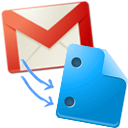
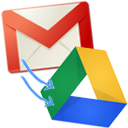
Updated to support Google Drive

diff --git a/js/main.js b/js/main.js
@@ -14,40 +14,8 @@ function getUrlVars(gm_url) {
 }
 
 function built_anchor() {
-    // var attachment_rows = jQuery('#canvas_frame').contents().find('div[role="main"] div.hq.gt table');
-    // jQuery.each(attachment_rows, function(i, $attachment) {
-    //     jQuery.doTimeout('buildAnchor', DOM_UPDATE_REPROCESS_WAIT_TIME_MS, function() {
-    //         var view_node = jQuery($attachment).find('a[href*="&disp=inline"][href*="&safe=1&zw"]');
-    //         if(view_node.length > 0) {
-    //             var _href = view_node.attr('href');
-    //             _href = generate_download_url(_href);
-
-    //             var download_link = jQuery("<a>")
-    //                 .attr({
-    //                     "class" : "docs_autosave_anchor",
-    //                     "target": "_blank",
-    //                     "href"  : _href,
-    //                     "style" : "text-decoration:none;"
-    //                 })
-    //                 .append('Save To Docs');
-
-    //             view_node.after(download_link);
-    //             view_node.after("&nbsp;&nbsp;&nbsp;");
-                
-    //             if(jQuery('a.docs_autosave_anchor').length) {
-    //                 //elem.doTimeout('buildAnchor');
-    //                 return false;
-    //             }
-    //         } else {
-    //             return true;
-    //         }
-    //     });
-        
-    // });
-
-
-    var view_nodes = jQuery('#canvas_frame').contents().find('a[href*="&disp=inline"][href*="&safe=1&zw"][class!="docs_autosave_anchor"]:hasText');
-    var openformat_nodes = jQuery('#canvas_frame').contents().find('a[href*="a=v&"][class!="docs_autosave_anchor"]:hasText');
+    var view_nodes = jQuery('#canvas_frame').contents().find('a[href*="&disp=inline"][href*="&safe=1&zw"][class!="drive_autosave_anchor"]:hasText');
+    var openformat_nodes = jQuery('#canvas_frame').contents().find('a[href*="a=v&"][class!="drive_autosave_anchor"]:hasText');
 
     view_nodes = view_nodes.add(openformat_nodes);
 
@@ -59,12 +27,12 @@ function built_anchor() {
 
             var download_link = jQuery("<a>")
                 .attr({
-                    "class" : "docs_autosave_anchor",
+                    "class" : "drive_autosave_anchor",
                     "target": "_blank",
                     "href"  : _href,
                     "style" : "text-decoration:none;"
                 })
-                .append('Save To Docs');
+                .append('Save To Drive');
 
             $view_node.after(download_link);
             $view_node.after("&nbsp;&nbsp;&nbsp;");
@@ -74,7 +42,7 @@ function built_anchor() {
 
 function nodeProcessed($view_node) {
     var $next_node = $view_node.next();
-    if($next_node.hasClass('docs_autosave_anchor')) {
+    if($next_node.hasClass('drive_autosave_anchor')) {
         return true;
     }
     return false;
